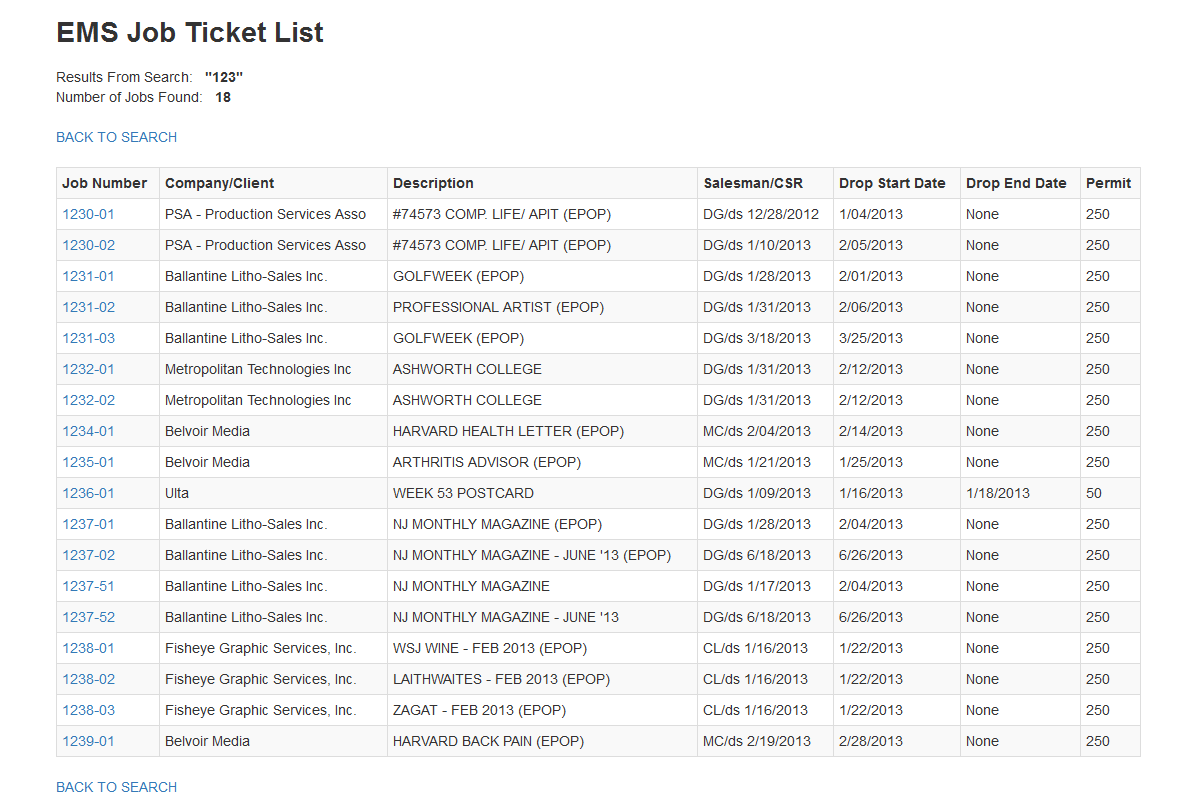
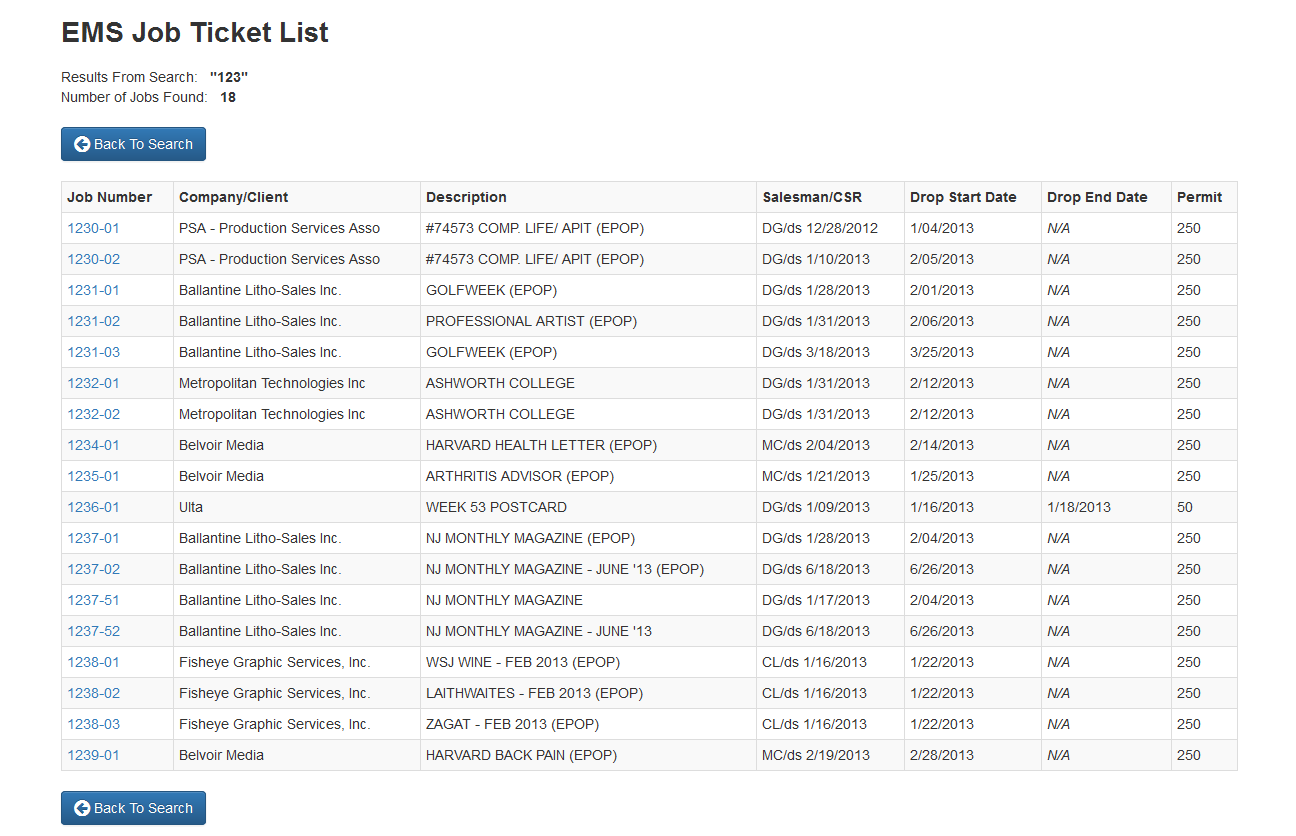
More styling tweaks

Changed region(s): [[0.0304, 0.0, 0.9738, 0.995]]

diff --git a/pyACCESS/www/templates/joblist.html b/pyACCESS/www/templates/joblist.html
@@ -22,7 +22,7 @@
         </div>
         <br>
         <div>
-            <a href="/">BACK TO SEARCH</a> 
+            <a class="btn btn-primary" href="/"><i class="fa fa-arrow-circle-left fa-lg"></i> Back To Search</a> 
         </div>
         <br>
         <div>
@@ -43,13 +43,18 @@
                         <td>{{ row.JobDescp }}</td>
                         <td>{{ row.Remark }}</td>
                         <td>{{ row.DropDate }}</td>
-                        <td>{{ row.ToDropDate }}</td>
+                        {% if row.ToDropDate %}
+                            <td>{{ row.ToDropDate }}</td>
+                        {% else %}
+                            <td><em>N/A</em></td>
+                        {% endif %}
                         <td>{{ row.Permit }}</td>
                     </tr>
                 {% endfor %}
             </table>
             <div>
-                <a href="/">BACK TO SEARCH</a> 
+                <a class="btn btn-primary" href="/"><i class="fa fa-arrow-circle-left fa-lg"></i> Back To Search</a>
+                <br>&nbsp 
             </div>
         </div>
         <!-- Third Party Javascript Libraries -->

diff --git a/pyACCESS/www/templates/index.html b/pyACCESS/www/templates/index.html
@@ -15,13 +15,14 @@
         <div align="center" class="jobsearch_form">
             <div><img src="../static/img/emslogoT.gif"></div>
             <h1><b>EMS Job Ticket Explorer<b></h1>
+            <p><em>Version 0.0.0 (Alpha)</em></p>
             <form class="form-inline" action="/jobnum-search/" method="get">
                 {% csrf_token %}
                 <div class="form-group">
                     <label class="col-md-12 col-form-label" for="jobnum">Enter a Full or Partial EMS Job Number: </label>
                     <div class="col-md-12">
                         <input class="form-control" id="jobsearch" type="text" name="jobnum" value="{{ jobnum }}" placeholder="9999-99">
-                        <input class="btn btn-primary" type="submit" value="SEARCH">
+                        <button type="submit" class="btn btn-primary"><i class="fa fa-search fa-lg"></i>&nbspSearch</button>
                     </div> 
                 </div>
             </form>

diff --git a/pyACCESS/www/static/css/main.css b/pyACCESS/www/static/css/main.css
@@ -6,10 +6,17 @@ body{
 
 /* center Job Search Form on page */
 .jobsearch_form{
-	width:350px;
+	color:darkslategrey;
+	width:385px;
 	height:400px;
 	position:absolute;
 	left:50%;
 	top:50%;
-	margin:-140px 0 0 -216px;
+	margin:-180px 0 0 -192px;
+}
+.btn {
+    margin: 7px;
+}
+.well {
+    padding: 7px;
 }

diff --git a/README.md b/README.md
@@ -21,9 +21,7 @@ must be created and configured to *"Run as administrator"*
 
 ![Command line as administrator](./images/www/cl_run_as_admin.png)
 
-The same must be done with the **Visual Studio Code** shortcut
-
-![VS Code as administrator](./images/www/code_run_as_admin.png)
+The same must be done with the **Visual Studio Code** shortcut.
 
 ## Create & Clone the inital Github repository
 Create a new/empty project on the Github Web site with a minimal configuration.
@@ -244,20 +242,23 @@ this maps to the app's **/static** folder (manually added).
         <!-- Third Party CSS Libraries -->
         <link rel="stylesheet" href="{% static 'bootstrap-3.3.7-dist/css/bootstrap.min.css' %}">
         <link rel="stylesheet" href="{% static 'bootstrap-3.3.7-dist/css/bootstrap-theme.min.css' %}">
+        <link rel="stylesheet" href="{% static 'font-awesome-4.7.0/css/font-awesome.min.css' %}">
         <link rel="stylesheet" href="{% static 'css/normalize.css' %}">
         <!-- Custom CSS -->
         <link rel="stylesheet" href="{% static 'css/main.css' %}">
     </head>
     <body>
         <div align="center" class="jobsearch_form">
+            <div><img src="../static/img/emslogoT.gif"></div>
             <h1><b>EMS Job Ticket Explorer<b></h1>
+            <p><em>Version 0.0.0 (Alpha)</em></p>
             <form class="form-inline" action="/jobnum-search/" method="get">
                 {% csrf_token %}
                 <div class="form-group">
                     <label class="col-md-12 col-form-label" for="jobnum">Enter a Full or Partial EMS Job Number: </label>
                     <div class="col-md-12">
                         <input class="form-control" id="jobsearch" type="text" name="jobnum" value="{{ jobnum }}" placeholder="9999-99">
-                        <input class="btn btn-primary" type="submit" value="SEARCH">
+                        <button type="submit" class="btn btn-primary"><i class="fa fa-search fa-lg"></i>&nbspSearch</button>
                     </div> 
                 </div>
             </form>
